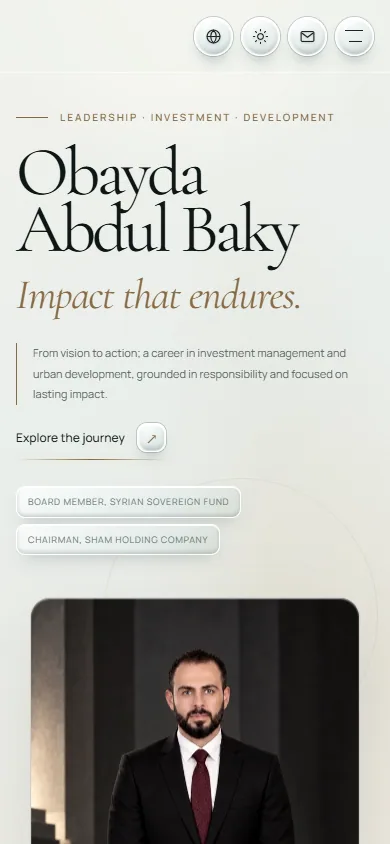
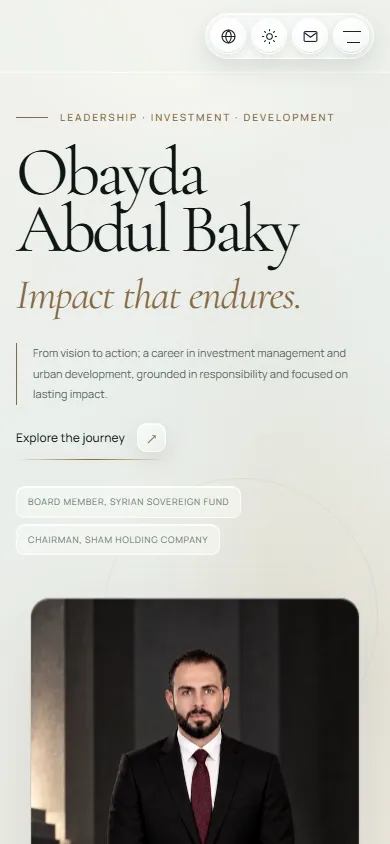
Restore restrained glass style and refine header controls

diff --git a/styles.css b/styles.css
@@ -348,8 +348,8 @@ html[lang="en"] .contact-title em{font-style:italic}
 
 /* Continuous atmosphere and glass surfaces */
 @font-face{font-family:Amiri;src:url("assets/fonts/amiri-arabic-400.woff2") format("woff2");font-style:normal;font-weight:400;font-display:swap}
-:root[data-theme="dark"]{--bg:#0d1214;--bg-elevated:transparent;--bg-soft:transparent;--card:transparent;--card-hover:transparent;--ink:#f5f2e9;--ink-strong:#fffaf1;--muted:#b7bfba;--muted-soft:#91a09a;--gold:#d9bc87;--gold-soft:#f2d8a1;--line:rgba(224,238,232,.16);--line-strong:rgba(224,238,232,.26);--header-glass:rgba(16,23,24,.55);--glass-base:rgba(222,241,232,.055);--glass-strong:rgba(222,241,232,.105);--glass-line:rgba(239,253,246,.2);--glass-bright:rgba(255,255,255,.32);--glass-shadow:rgba(0,0,0,.32);--liquid-top:rgba(237,251,249,.3);--liquid-base:rgba(192,217,219,.11);--liquid-bottom:rgba(124,152,158,.1);--liquid-rim:rgba(245,255,252,.62);--liquid-glint:rgba(255,255,255,.82);--liquid-edge:rgba(255,255,255,.28);--liquid-inset:rgba(2,10,12,.55);--liquid-outline:rgba(230,247,246,.14);--liquid-shadow:rgba(0,0,0,.58);--liquid-panel-glow:rgba(229,249,246,.13)}
-:root[data-theme="light"]{--bg:#efeee9;--bg-elevated:transparent;--bg-soft:transparent;--card:transparent;--card-hover:transparent;--ink:#1b2423;--ink-strong:#0e1716;--muted:#586663;--muted-soft:#70817b;--gold:#876a46;--gold-soft:#ad8b5e;--line:rgba(28,52,47,.14);--line-strong:rgba(28,52,47,.23);--header-glass:rgba(238,242,237,.58);--glass-base:rgba(255,255,255,.42);--glass-strong:rgba(255,255,255,.67);--glass-line:rgba(255,255,255,.78);--glass-bright:rgba(255,255,255,.93);--glass-shadow:rgba(56,70,63,.13);--liquid-top:rgba(255,255,255,.84);--liquid-base:rgba(226,235,238,.53);--liquid-bottom:rgba(179,194,199,.29);--liquid-rim:rgba(255,255,255,.98);--liquid-glint:#fff;--liquid-edge:rgba(255,255,255,.9);--liquid-inset:rgba(91,112,117,.3);--liquid-outline:rgba(77,97,103,.27);--liquid-shadow:rgba(56,73,77,.32);--liquid-panel-glow:rgba(255,255,255,.55)}
+:root[data-theme="dark"]{--bg:#0d1214;--bg-elevated:transparent;--bg-soft:transparent;--card:transparent;--card-hover:transparent;--ink:#f5f2e9;--ink-strong:#fffaf1;--muted:#b7bfba;--muted-soft:#91a09a;--gold:#d9bc87;--gold-soft:#f2d8a1;--line:rgba(224,238,232,.16);--line-strong:rgba(224,238,232,.26);--header-glass:rgba(16,23,24,.55);--glass-base:rgba(222,241,232,.055);--glass-strong:rgba(222,241,232,.105);--glass-line:rgba(239,253,246,.2);--glass-bright:rgba(255,255,255,.32);--glass-shadow:rgba(0,0,0,.32)}
+:root[data-theme="light"]{--bg:#efeee9;--bg-elevated:transparent;--bg-soft:transparent;--card:transparent;--card-hover:transparent;--ink:#1b2423;--ink-strong:#0e1716;--muted:#586663;--muted-soft:#70817b;--gold:#876a46;--gold-soft:#ad8b5e;--line:rgba(28,52,47,.14);--line-strong:rgba(28,52,47,.23);--header-glass:rgba(238,242,237,.58);--glass-base:rgba(255,255,255,.42);--glass-strong:rgba(255,255,255,.67);--glass-line:rgba(255,255,255,.78);--glass-bright:rgba(255,255,255,.93);--glass-shadow:rgba(56,70,63,.13)}
 body{background:var(--bg)}
 body::before,body::after{content:"";position:fixed;inset:0;z-index:0;pointer-events:none}
 body::before{background:radial-gradient(ellipse 75% 36% at 48% -9%,#293434 0%,transparent 80%),radial-gradient(ellipse 65% 43% at 100% 77%,rgba(139,111,68,.105),transparent 80%),linear-gradient(155deg,#0d1214 0%,#141b1b 48%,#101516 100%)}
@@ -363,7 +363,7 @@ body::after{background:radial-gradient(ellipse 75% 38% at 48% -9%,#fffef7 0%,tra
 .section-topline .topline-rule{background:linear-gradient(90deg,var(--line),transparent)}
 html[dir="rtl"] .section-topline .topline-rule{background:linear-gradient(-90deg,var(--line),transparent)}
 
-/* Header: separate liquid-glass controls */
+/* Header: symbols only, with a real frosted dock */
 .site-header{background:var(--header-glass);border-bottom:1px solid var(--glass-line);backdrop-filter:blur(26px) saturate(175%);-webkit-backdrop-filter:blur(26px) saturate(175%)}
 .site-header.scrolled,.site-header.menu-open{background:var(--header-glass);border-bottom-color:var(--glass-line);box-shadow:0 18px 50px var(--glass-shadow)}
 .header-inner{display:grid;grid-template-columns:1fr auto 1fr;min-height:88px}
@@ -374,11 +374,11 @@ html[dir="rtl"] .section-topline .topline-rule{background:linear-gradient(-90deg
 .desktop-nav a::after{left:50%;inset-inline-start:auto;bottom:1px;width:115%;height:2px;transform:translateX(-50%) scaleX(0);transform-origin:center;background:linear-gradient(90deg,transparent 0%,var(--gold-soft) 23%,#fff6d9 50%,var(--gold-soft) 77%,transparent 100%);box-shadow:0 0 6px var(--gold),0 0 18px rgba(236,202,136,.7),0 0 34px rgba(236,202,136,.35);border-radius:5px}
 .desktop-nav a:hover::before,.desktop-nav a.active::before{opacity:1;transform:translateX(-50%) scale(1)}
 .desktop-nav a:hover::after,.desktop-nav a.active::after{transform:translateX(-50%) scaleX(1)}
-.header-actions{justify-self:end;display:flex;align-items:center;gap:12px;padding:0;border:0;background:none;box-shadow:none;backdrop-filter:none;-webkit-backdrop-filter:none}
-.utility-button,.header-contact,.menu-button{position:relative;isolation:isolate;flex:none;width:46px;height:46px;min-height:0;display:grid;place-items:center;border-radius:50%;padding:0;color:var(--ink);cursor:pointer;transition:transform .35s ease,box-shadow .35s ease,color .35s ease}
-.utility-button:hover,.header-contact:hover,.menu-button:hover{transform:translateY(-4px) scale(1.055);color:var(--ink);box-shadow:inset 0 2px 1px var(--liquid-glint),inset 2px 0 2px var(--liquid-edge),inset 0 -3px 5px var(--liquid-inset),0 0 0 1px var(--liquid-outline),0 13px 18px -6px var(--liquid-shadow),0 0 18px rgba(217,188,135,.24)}
-.utility-button:active,.header-contact:active,.menu-button:active{transform:translateY(1px) scale(.96)}
-.utility-button svg,.header-contact svg{width:21px;height:21px;position:relative;z-index:2;filter:drop-shadow(0 1px 1px rgba(0,0,0,.18))}
+.header-actions{justify-self:end;display:flex;align-items:center;gap:8px;padding:6px;border-radius:999px;background:linear-gradient(145deg,var(--glass-strong),var(--glass-base) 65%,transparent);border:1px solid var(--glass-line);box-shadow:inset 0 1px 0 var(--glass-bright),0 10px 28px var(--glass-shadow);backdrop-filter:blur(24px) saturate(175%);-webkit-backdrop-filter:blur(24px) saturate(175%)}
+.utility-button,.header-contact,.menu-button{position:relative;flex:none;width:42px;height:42px;min-height:0;display:grid;place-items:center;border-radius:50%;padding:0;background:linear-gradient(145deg,var(--glass-strong),var(--glass-base) 68%,transparent);border:1px solid var(--glass-line);color:var(--ink);box-shadow:inset 0 1px 0 var(--glass-bright),inset 0 -1px 0 var(--line),0 3px 11px var(--glass-shadow);backdrop-filter:blur(18px) saturate(170%);-webkit-backdrop-filter:blur(18px) saturate(170%);transition:transform .3s,box-shadow .3s,background .3s,border-color .3s}
+.utility-button::before,.header-contact::before,.menu-button::before,.glass-icon::before{content:"";position:absolute;inset:1px;border-radius:inherit;background:radial-gradient(ellipse at 22% 0%,rgba(255,255,255,.24),transparent 62%);opacity:.6;pointer-events:none}
+.utility-button:hover,.header-contact:hover,.menu-button:hover{transform:translateY(-2px);background:linear-gradient(145deg,var(--glass-strong),var(--glass-base));border-color:var(--gold);color:var(--ink);box-shadow:inset 0 1px 0 var(--glass-bright),0 7px 19px var(--glass-shadow)}
+.utility-button svg,.header-contact svg{width:20px;height:20px;position:relative;z-index:1}
 .theme-button svg{width:19px;height:19px}
 .header-contact{gap:0}
 .menu-button{display:none}
@@ -405,33 +405,7 @@ html[lang="ar"] .card-content h3{font-size:clamp(39px,4.2vw,66px);line-height:1.
 .hero-meta{gap:8px}
 .hero-meta>span:not(.meta-divider){display:inline-flex;align-items:center;min-height:30px;padding:7px 11px;border:1px solid var(--glass-line);border-radius:9px;background:var(--glass-base);backdrop-filter:blur(17px) saturate(170%);-webkit-backdrop-filter:blur(17px) saturate(170%);box-shadow:inset 0 1px 0 var(--glass-bright)}
 .hero-meta .meta-divider{display:none}
-.glass-icon,.link-arrow,.journey-glyph,.expertise-star,.footer-arrow{position:relative;isolation:isolate;display:grid;place-items:center;flex:none;color:var(--gold);overflow:hidden}
-/* A raised, refractive lens: translucent body, bright rim, lower bevel, and a curved glint. */
-:is(.utility-button,.header-contact,.menu-button,.glass-icon,.link-arrow,.journey-glyph,.expertise-star,.footer-arrow,.statement-symbol,.journey-index,.about-small-note .note-symbol,.contact-email span:last-child){
-  position:relative;isolation:isolate;overflow:hidden;
-  background:radial-gradient(ellipse 95% 75% at 50% 118%,var(--liquid-bottom),transparent 72%),linear-gradient(155deg,var(--liquid-top),var(--liquid-base) 55%,var(--liquid-bottom));
-  border:1px solid var(--liquid-rim);
-  box-shadow:inset 0 2px 1px var(--liquid-glint),inset 2px 0 2px var(--liquid-edge),inset -1px 0 1px var(--liquid-edge),inset 0 -3px 5px var(--liquid-inset),0 0 0 1px var(--liquid-outline),0 9px 14px -6px var(--liquid-shadow),0 18px 22px -15px var(--liquid-shadow);
-  backdrop-filter:blur(17px) saturate(175%) contrast(1.05);
-  -webkit-backdrop-filter:blur(17px) saturate(175%) contrast(1.05);
-}
-:is(.utility-button,.header-contact,.menu-button,.glass-icon,.link-arrow,.journey-glyph,.expertise-star,.footer-arrow,.statement-symbol,.journey-index,.about-small-note .note-symbol,.contact-email span:last-child)::before{
-  content:"";position:absolute;inset:2px;border-radius:inherit;pointer-events:none;z-index:0;
-  background:radial-gradient(ellipse 110% 75% at 12% -15%,var(--liquid-glint),transparent 70%);
-  opacity:.78;
-}
-:is(.utility-button,.header-contact,.menu-button,.glass-icon,.link-arrow,.journey-glyph,.expertise-star,.footer-arrow,.statement-symbol,.journey-index,.about-small-note .note-symbol,.contact-email span:last-child)::after{
-  content:"";position:absolute;top:5px;left:7px;width:35%;height:24%;z-index:0;pointer-events:none;
-  border-top:2px solid var(--liquid-glint);border-left:1px solid var(--liquid-glint);
-  border-radius:100% 30% 15% 20%;transform:rotate(-24deg);filter:blur(.25px);opacity:.85;
-}
-button.utility-button:hover,a.header-contact:hover,button.menu-button:hover{
-  background:radial-gradient(ellipse 95% 75% at 50% 118%,var(--liquid-bottom),transparent 72%),linear-gradient(155deg,var(--liquid-glint),var(--liquid-base) 62%,var(--liquid-bottom));
-  box-shadow:inset 0 2px 1px var(--liquid-glint),inset 2px 0 2px var(--liquid-edge),inset 0 -3px 5px var(--liquid-inset),0 0 0 1px var(--liquid-outline),0 13px 18px -6px var(--liquid-shadow),0 0 18px rgba(217,188,135,.24);
-}
-.glass-icon svg{position:relative;z-index:2}
-.menu-button span{z-index:2}
-.portrait-index,.hero-meta>span:not(.meta-divider){background:linear-gradient(155deg,var(--liquid-top),var(--liquid-base) 65%,var(--liquid-bottom));border-color:var(--liquid-rim);box-shadow:inset 0 1px 0 var(--liquid-glint),inset 0 -2px 4px var(--liquid-inset),0 8px 18px -8px var(--liquid-shadow)}
+.glass-icon,.link-arrow,.journey-glyph,.expertise-star,.footer-arrow{position:relative;display:grid;place-items:center;flex:none;background:linear-gradient(145deg,var(--glass-strong),var(--glass-base) 65%,transparent);border:1px solid var(--glass-line);box-shadow:inset 0 1px 0 var(--glass-bright),0 7px 22px var(--glass-shadow);backdrop-filter:blur(17px) saturate(180%);-webkit-backdrop-filter:blur(17px) saturate(180%);color:var(--gold);overflow:hidden}
 .link-arrow{width:29px;height:29px;border-radius:10px;font-size:16px}
 .text-link{border-bottom:0;gap:12px}
 .text-link::after{content:"";position:absolute;bottom:0;inset-inline-start:0;width:100%;height:1px;background:linear-gradient(90deg,transparent,var(--gold),transparent);box-shadow:0 0 8px rgba(224,185,118,.4)}
@@ -501,18 +475,10 @@ html[lang="en"] .card-content h3{font-size:clamp(42px,4.3vw,67px)}
 .contact-title{color:var(--ink-strong)}
 .contact-title em{color:var(--gold)}
 .contact-bottom p,.contact-extra{color:var(--muted)}
-.contact-email span:last-child{width:45px;height:45px;display:grid;place-items:center;border-radius:14px;border:1px solid var(--liquid-rim);background:radial-gradient(ellipse 95% 75% at 50% 118%,var(--liquid-bottom),transparent 72%),linear-gradient(155deg,var(--liquid-top),var(--liquid-base) 55%,var(--liquid-bottom));box-shadow:inset 0 2px 1px var(--liquid-glint),inset 0 -3px 5px var(--liquid-inset),0 0 0 1px var(--liquid-outline),0 9px 14px -6px var(--liquid-shadow);font-size:22px}
+.contact-email span:last-child{width:45px;height:45px;display:grid;place-items:center;border-radius:14px;border:1px solid var(--glass-line);background:var(--glass-strong);box-shadow:inset 0 1px 0 var(--glass-bright);font-size:22px}
 .site-footer{border-top:0}
 .footer-inner{border-top:1px solid var(--line);color:var(--muted)}
 .footer-arrow{width:32px;height:32px;border-radius:10px;font-size:18px}
-
-/* Carry the same polished material through the larger surfaces. */
-:is(.leadership-card,.statement-inner,.journey-item,.expertise-item,.contact-inner){
-  background:radial-gradient(ellipse 83% 80% at 5% -28%,var(--liquid-panel-glow),transparent 83%),linear-gradient(128deg,var(--glass-strong),var(--glass-base) 54%,transparent);
-  box-shadow:inset 0 2px 1px var(--glass-bright),inset 0 0 0 1px var(--liquid-outline),inset 0 -2px 4px var(--liquid-inset),0 20px 55px -12px var(--glass-shadow);
-}
-.about-copy-glass{box-shadow:inset 0 2px 1px rgba(255,255,255,.46),inset 0 0 0 1px rgba(255,255,255,.1),inset 0 -2px 5px rgba(0,0,0,.3),0 22px 60px rgba(0,0,0,.24)}
-.leadership-card:hover,.journey-item:hover,.expertise-item:hover{box-shadow:inset 0 2px 1px var(--glass-bright),inset 0 0 0 1px var(--liquid-outline),inset 0 -2px 4px var(--liquid-inset),0 25px 65px -12px var(--glass-shadow),0 0 35px rgba(211,173,106,.11)}
 
 @supports not ((backdrop-filter:blur(1px)) or (-webkit-backdrop-filter:blur(1px))){
   .header-actions,.utility-button,.header-contact,.menu-button,.glass-icon,.about-copy-glass,.leadership-card,.statement-inner,.journey-item,.expertise-item,.contact-inner{background:var(--bg)}
@@ -549,8 +515,8 @@ html[lang="en"] .card-content h3{font-size:clamp(42px,4.3vw,67px)}
 }
 @media(max-width:700px){
   .header-inner{min-height:72px}
-  .header-actions{padding:0;gap:8px}
-  .utility-button,.header-contact,.menu-button{width:39px;height:39px}
+  .header-actions{padding:4px;gap:5px}
+  .utility-button,.header-contact,.menu-button{width:36px;height:36px}
   .utility-button svg,.header-contact svg,.theme-button svg{width:17px;height:17px}
   .menu-button span{left:9px;top:12px}
   .menu-button span:last-child{left:13px;top:23px}

diff --git a/index.html b/index.html
@@ -27,7 +27,7 @@
             <a href="#journey" data-i18n="navJourney">المسيرة</a>
             <a href="#expertise" data-i18n="navExpertise">المؤهلات</a>
           </nav>
-          <div class="header-actions">
+          <div class="header-actions glass-dock">
             <button class="utility-button lang-button" id="language-toggle" type="button" aria-label="Switch to English"><svg viewBox="0 0 24 24" fill="none" stroke="currentColor" stroke-width="1.55" stroke-linecap="round" stroke-linejoin="round" aria-hidden="true"><circle cx="12" cy="12" r="9"/><path d="M3 12h18M12 3c2.6 2.5 4 5.5 4 9s-1.4 6.5-4 9c-2.6-2.5-4-5.5-4-9s1.4-6.5 4-9Z"/></svg></button>
             <button class="utility-button theme-button" id="theme-toggle" type="button" aria-label="تفعيل الوضع الفاتح">
               <svg class="moon-icon" viewBox="0 0 24 24" fill="none" stroke="currentColor" stroke-width="1.5" stroke-linecap="round" stroke-linejoin="round" aria-hidden="true"><path d="M20.4 15.1A8.7 8.7 0 0 1 8.9 3.6 8.7 8.7 0 1 0 20.4 15.1Z" /></svg>
